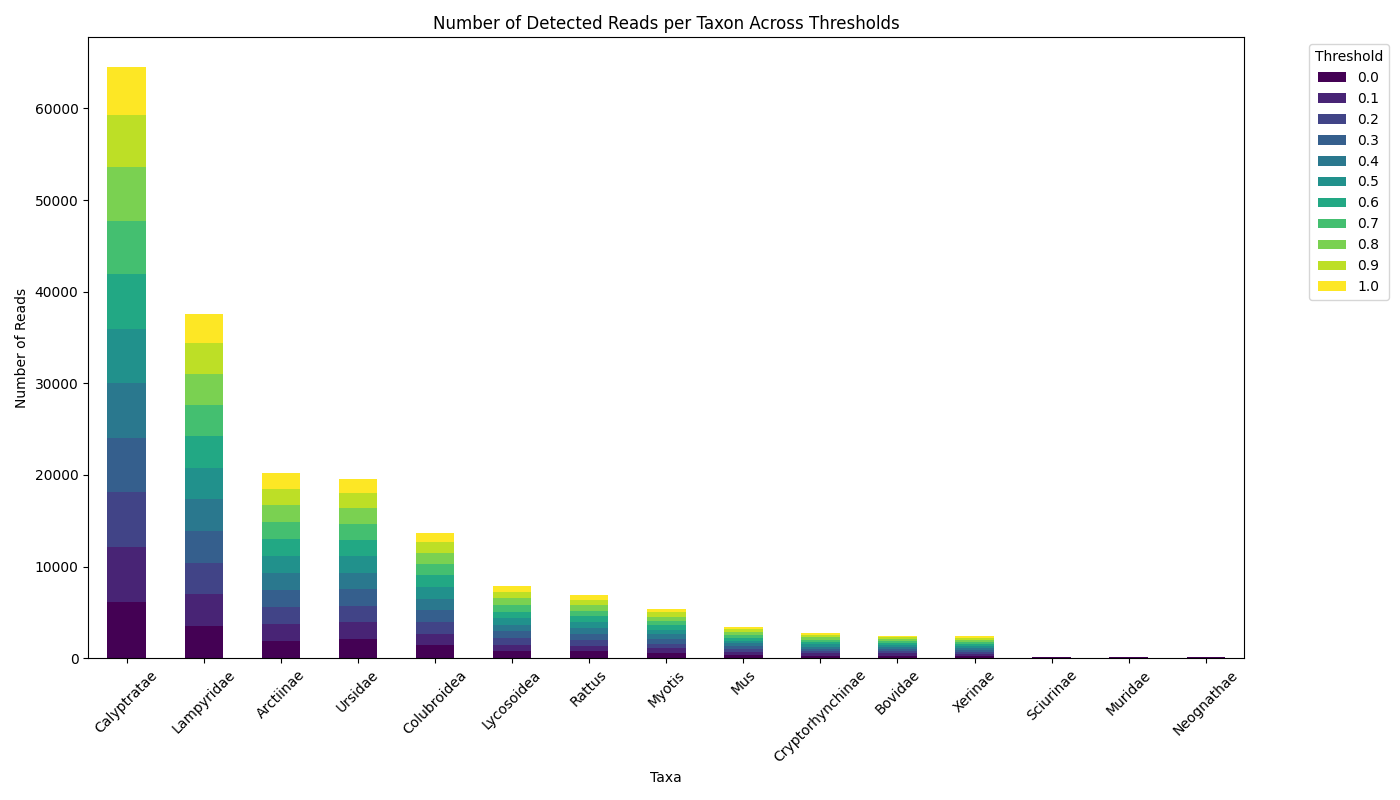
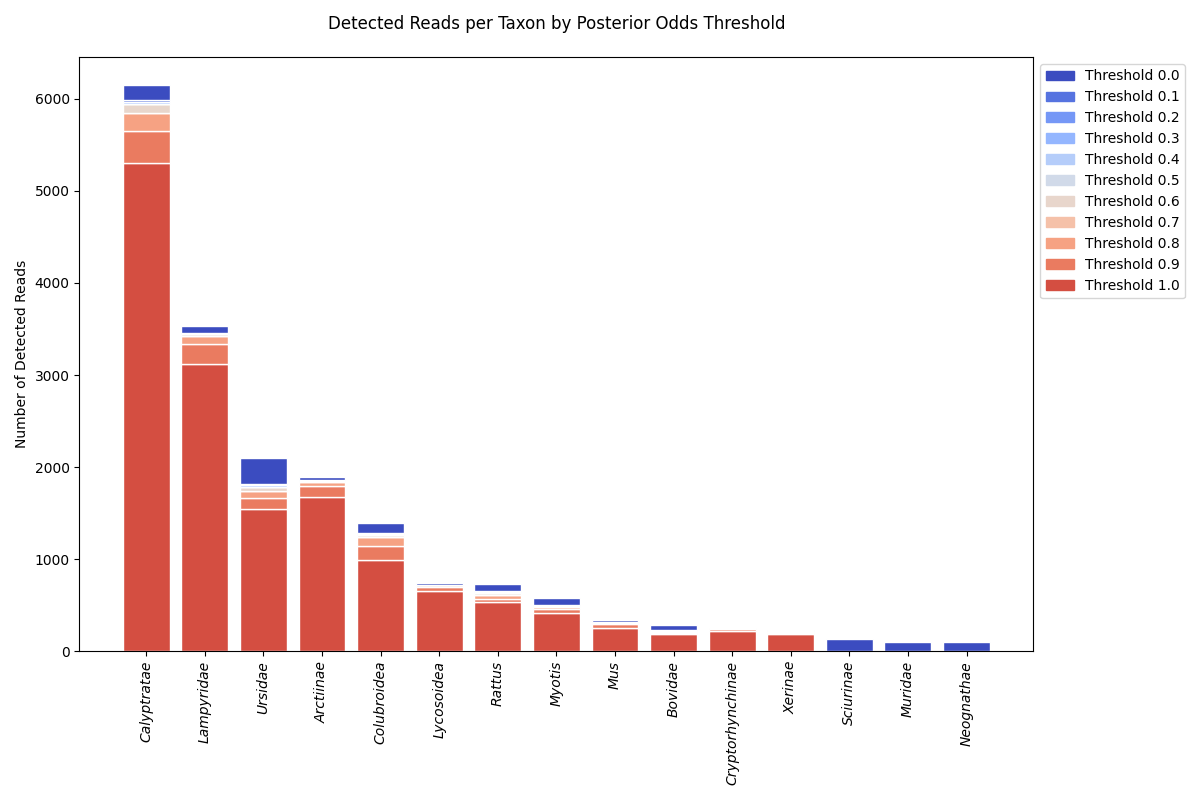
Update

diff --git a/euka_results/plot.py b/euka_results/plot.py
@@ -1,69 +1,66 @@
-import pandas as pd
+import re
 import matplotlib.pyplot as plt
-import os
-import matplotlib.cm as cm
-from matplotlib.colors import LinearSegmentedColormap
+import numpy as np
 
-def read_and_parse_files(directory_path):
-    """
-    Reads and parses files in the specified directory that match the pattern.
-    
-    Parameters:
-    - directory_path: str, path to the directory containing the files.
-    
-    Returns:
-    - DataFrame with all the parsed data.
-    """
-    all_data = []
+def parse_threshold(header):
+    match = re.search(r'_j_(\d+\.\d+)_detected', header)
+    return float(match.group(1)) if match else None
 
-    # Loop through each file in the directory
-    for file_name in os.listdir(directory_path):
-        if file_name.endswith(".tsv") and "_corrected" in file_name and "detected" in file_name:
-            threshold = float(file_name.split("_")[-2])
-            file_path = os.path.join(directory_path, file_name)
-            
-            # Read the file, skipping the header line that starts with #
-            with open(file_path, 'r') as file:
-                lines = file.readlines()
-                data = [line.strip().split('\t') for line in lines if not line.startswith('#')]
-                for row in data:
-                    taxa, detected, number_of_reads = row[0], row[1], int(row[2])
-                    all_data.append({"Taxa": taxa, "Threshold": threshold, "Number_of_reads": number_of_reads})
+def load_data(file_path):
+    data_by_taxon = {}
+    with open(file_path, 'r') as file:
+        current_threshold = None
+        for line in file:
+            if line.startswith('euka_corrected_full_j_'):
+                current_threshold = parse_threshold(line.strip())
+            elif not line.startswith('#') and line.strip():
+                parts = line.split('\t')
+                taxon = parts[0]
+                number_of_reads = int(parts[2])
+                if taxon not in data_by_taxon:
+                    data_by_taxon[taxon] = {}
+                data_by_taxon[taxon][current_threshold] = number_of_reads
+    return data_by_taxon
 
-    # Convert the list of dictionaries to a DataFrame
-    return pd.DataFrame(all_data)
+def calculate_incremental_reads(data_by_taxon):
+    incremental_data_by_taxon = {}
+    for taxon, thresholds_reads in data_by_taxon.items():
+        sorted_thresholds = sorted(thresholds_reads.keys(), reverse=True)
+        incremental_reads = []
+        previous_reads = 0
+        for threshold in sorted_thresholds:
+            current_reads = thresholds_reads[threshold]
+            incremental_reads.append((threshold, current_reads - previous_reads))
+            previous_reads = current_reads
+        incremental_data_by_taxon[taxon] = incremental_reads
+    return incremental_data_by_taxon
 
-def plot_data(df):
-    # Calculate total reads per taxa
-    df_total_reads = df.groupby('Taxa').sum().reset_index()
+def plot_data(incremental_data_by_taxon, data_by_taxon):
+    sorted_taxa = sorted(incremental_data_by_taxon.keys(), key=lambda x: data_by_taxon[x][0.0], reverse=True)
+    cmap = plt.get_cmap("coolwarm")
+    thresholds = sorted(list(next(iter(incremental_data_by_taxon.values()))), key=lambda x: x[0])
+    colors = {t[0]: cmap(i / len(thresholds)) for i, t in enumerate(thresholds)}
 
-    # Sort taxa by total read count in descending order
-    sorted_taxa = df_total_reads.sort_values(by='Number_of_reads', ascending=False)['Taxa']
+    fig, ax = plt.subplots(figsize=(12, 8))
+    bar_width = 0.8
 
-    # Pivot the original dataframe for plotting
-    df_pivot = df.pivot(index="Taxa", columns="Threshold", values="Number_of_reads").fillna(0)
+    for i, taxon in enumerate(sorted_taxa):
+        heights = np.array([val[1] for val in incremental_data_by_taxon[taxon]])
+        bottoms = np.cumsum(heights) - heights
+        for j, (threshold, _) in enumerate(incremental_data_by_taxon[taxon]):
+            ax.bar(i, heights[j], bar_width, bottom=bottoms[j], color=colors[threshold], edgecolor='white')
 
-    # Reorder the DataFrame based on the sorted taxa
-    df_pivot = df_pivot.reindex(sorted_taxa)
-    print(df_pivot)
+    ax.set_xticks(range(len(sorted_taxa)))
+    ax.set_xticklabels(sorted_taxa, rotation=90, fontstyle='italic')
+    ax.set_ylabel('Number of Detected Reads')
+    ax.set_title('Detected Reads per Taxon by Posterior Odds Threshold', pad=20)
+    ax.legend([plt.Rectangle((0,0),1,1, color=colors[threshold[0]]) for threshold in thresholds], [f"Threshold {threshold[0]}" for threshold in thresholds], loc='upper left', bbox_to_anchor=(1,1))
 
-    # Proceed with plotting as before
-    df_pivot.plot(kind='bar', stacked=True, figsize=(14, 8), colormap=cm.viridis)
-    plt.title('Detected Reads per Taxon Across Thresholds')
-    plt.xlabel('Taxa')
-    plt.ylabel('Number of Reads')
-    plt.xticks(rotation=45)
-    plt.legend(title='Threshold', bbox_to_anchor=(1.05, 1), loc='upper left')
     plt.tight_layout()
     plt.savefig("threshold_plot.png")
 
-
-# Specify the directory path containing your files
-directory_path = '.'
-
-# Read and parse the data
-df = read_and_parse_files(directory_path)
-
-# Plot the data
-plot_data(df)
+file_path = 'threshold_data.txt'  # Update with the path to your file
+data_by_taxon = load_data(file_path)
+incremental_data_by_taxon = calculate_incremental_reads(data_by_taxon)
+plot_data(incremental_data_by_taxon, data_by_taxon)
 
